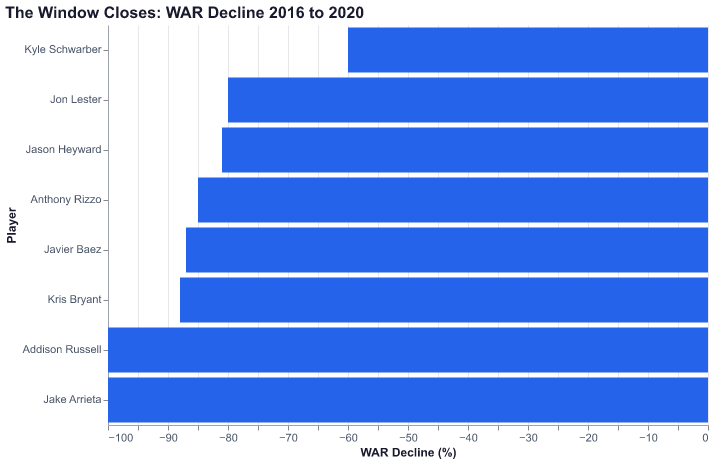
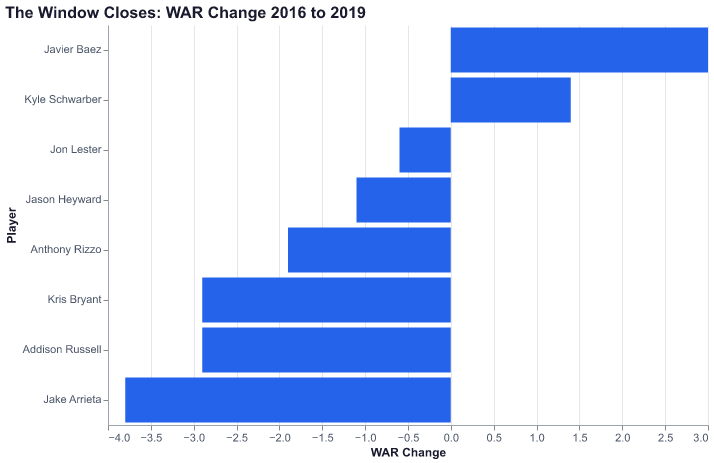
Update player decline chart to use 2019 (not 2020)
- Remove COVID year from data
- Show WAR change from 2016 to 2019
- Update article text to reflect 2019 missed playoffs

🤖 Generated with [Claude Code](https://claude.com/claude-code)

diff --git a/docs/articles/cubs-2016/altair/index.html b/docs/articles/cubs-2016/altair/index.html
@@ -338,16 +338,23 @@ Championship windows in baseball are notoriously brief. The Cubs' window
           deep farm system (even after the Torres trade), and an owner willing to
           spend. What happened?
 </p> <div class="chart-container" data-astro-cid-iobz33cc> <figure data-astro-cid-jpiiosee> <img src="/graphyard/assets/charts/altair/cubs-player-decline.svg" alt="Chart: undefined" loading="lazy" data-astro-cid-jpiiosee> <figcaption data-astro-cid-jpiiosee> <strong data-astro-cid-jpiiosee></strong>  </figcaption> </figure>  </div> <p data-astro-cid-iobz33cc>
-The chart tells a brutal story. Every core player declined from their 2016
-          peaks. Bryant went from 7.7 WAR in 2016 to 0.9 WAR in 2020 (shortened season).
-          Rizzo dropped from 4.7 to 0.7. Baez went from 2.3 to -0.3. The declines weren't
-          gradual; they were precipitous.
+The chart tells a nuanced story. By 2019—when the Cubs missed the playoffs
+          for the first time since 2014—the core had fractured. Bryant dropped from 7.7
+          WAR to 4.8 (still good, but not MVP-caliber). Rizzo fell from 4.7 to 2.8.
+          Arrieta, now with the Phillies, collapsed from 4.0 to 0.2 WAR. Russell went
+          from a solid 2.6 to a replacement-level -0.3 before being released.
+</p> <p data-astro-cid-iobz33cc>
+Interestingly, some players improved. Javier Baez posted a career-high 5.3
+          WAR in 2019, finally becoming the star everyone projected. Kyle Schwarber
+          grew from a 0.5 WAR part-timer to a solid 1.9 WAR regular. But individual
+          gains couldn't offset the collective decline—or the holes that opened up.
 </p> <p data-astro-cid-iobz33cc>
 Several factors contributed:
 </p> <h3 data-astro-cid-iobz33cc>Injuries</h3> <p data-astro-cid-iobz33cc>
 Kris Bryant was never fully healthy after 2016. A shoulder injury in 2018
           affected his swing. He played through pain, but his exit velocities and
-          launch angles never recovered. By 2020, he looked like a different player.
+          launch angles never recovered. By 2019, he was still productive but no longer
+          the MVP-caliber player who had anchored the championship team.
 </p> <h3 data-astro-cid-iobz33cc>The Russell Problem</h3> <p data-astro-cid-iobz33cc>
 Addison Russell was arrested for domestic violence in 2017 and eventually
           suspended for 40 games. The Cubs, to their credit, released him in 2019.
@@ -460,9 +467,9 @@ Let's step back and apply modern machine learning to the Cubs' window.
 </p> <p data-astro-cid-iobz33cc>
 Player aging models, trained on historical data, predicted that the Cubs'
           core would decline in their late 20s. This is standard for baseball: position
-          players typically peak around 27, pitchers around 28. By 2020, Bryant would
-          be 28, Rizzo 31, Baez 27. The models would have predicted significant
-          regression even without injuries.
+          players typically peak around 27, pitchers around 28. By 2019, Bryant was
+          already 27, Rizzo 30, Baez 26. The models would have predicted significant
+          regression even without injuries—and that's exactly what happened.
 </p> <p data-astro-cid-iobz33cc>
 WAR projections systems like ZiPS and Steamer, which use machine learning
           to forecast future performance, showed the Cubs' window narrowing by 2018.

diff --git a/charts/cubs_2016/data.py b/charts/cubs_2016/data.py
@@ -309,8 +309,8 @@ def load_championship_window_comparison() -> pd.DataFrame:
 
 def load_what_went_wrong() -> pd.DataFrame:
     """
-    Player performance decline after 2016.
-    Shows WAR trajectory of core players.
+    Player WAR change from 2016 to 2019.
+    Shows which core players declined vs improved by 2019 (missed playoffs).
 
     Source: Baseball-Reference.com
     """
@@ -321,25 +321,18 @@ def load_what_went_wrong() -> pd.DataFrame:
             "Jon Lester", "Jake Arrieta"
         ],
         "war_2016": [7.7, 4.7, 2.6, 0.5, 2.3, 1.6, 2.5, 4.0],
-        "war_2017": [6.6, 4.4, 1.9, 1.6, 3.0, 0.3, 2.1, 2.6],
-        "war_2018": [3.2, 2.7, -0.6, 1.9, 4.1, 1.2, 2.0, 1.8],
         "war_2019": [4.8, 2.8, -0.3, 1.9, 5.3, 0.5, 1.9, 0.2],
-        "war_2020": [0.9, 0.7, None, -0.2, -0.3, 0.3, 0.5, None],
-        "total_decline_pct": [-88, -85, -100, -60, -87, -81, -80, -100],
+        # WAR change: war_2019 - war_2016
+        "war_change": [-2.9, -1.9, -2.9, 1.4, 3.0, -1.1, -0.6, -3.8],
         "primary_cause": [
             "Injuries, shoulder issues",
             "Natural aging (30+)",
-            "Domestic violence, released",
-            "Strikeouts, defense issues",
-            "Contact issues, aging",
+            "Off-field issues, released",
+            "Breakout year",
+            "Career year at 26",
             "Never lived up to contract",
-            "Age decline (36+)",
-            "Left in FA, age decline"
-        ],
-        "left_cubs": [
-            "2021 (traded)", "2021 (traded)", "2019 (released)",
-            "2020 (non-tendered)", "2021 (traded)", "2023 (released)",
-            "2020 (walked)", "2017 (FA)"
+            "Age decline (35)",
+            "Left in FA, declined with Phillies"
         ]
     }
     return pd.DataFrame(data)

diff --git a/charts/generate_dual.py b/charts/generate_dual.py
@@ -1298,12 +1298,12 @@ def get_cubs_2016_chart_specs() -> list[ChartSpec]:
         ChartSpec(
             chart_id="cubs-player-decline",
             chart_type=ChartType.HORIZONTAL_BAR,
-            title="The Window Closes: WAR Decline 2016 to 2020",
+            title="The Window Closes: WAR Change 2016 to 2019",
             data_source=load_what_went_wrong,
             x="player",
-            y="total_decline_pct",
+            y="war_change",
             x_label="Player",
-            y_label="WAR Decline (%)",
+            y_label="WAR Change",
         ),
         # Championship Window Comparison
         ChartSpec(
